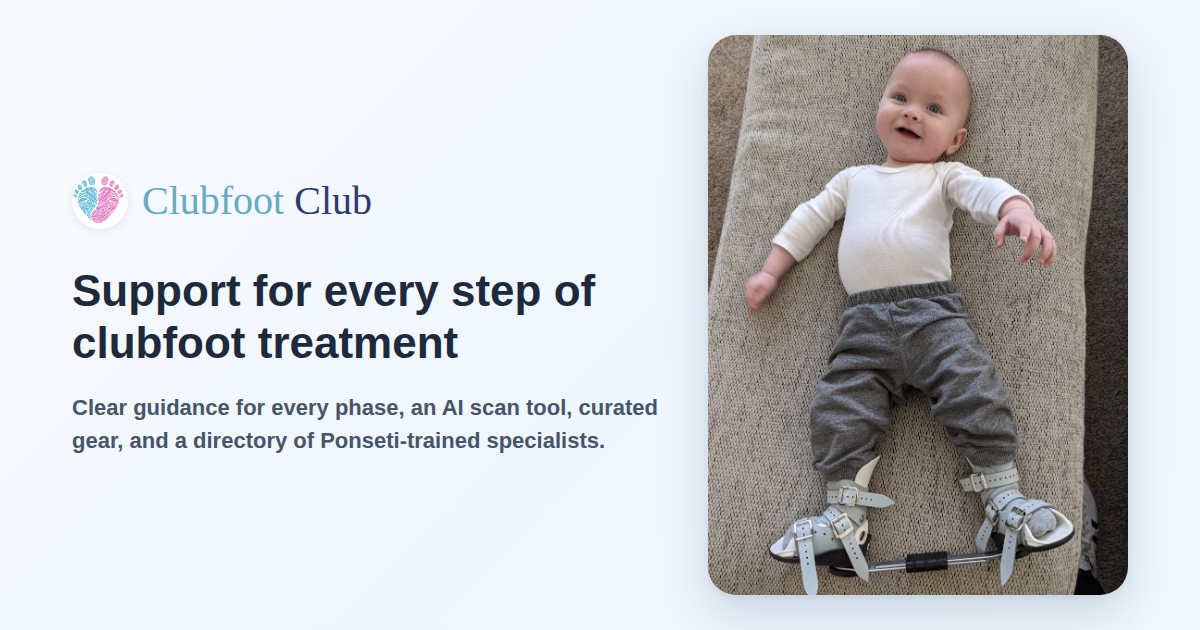
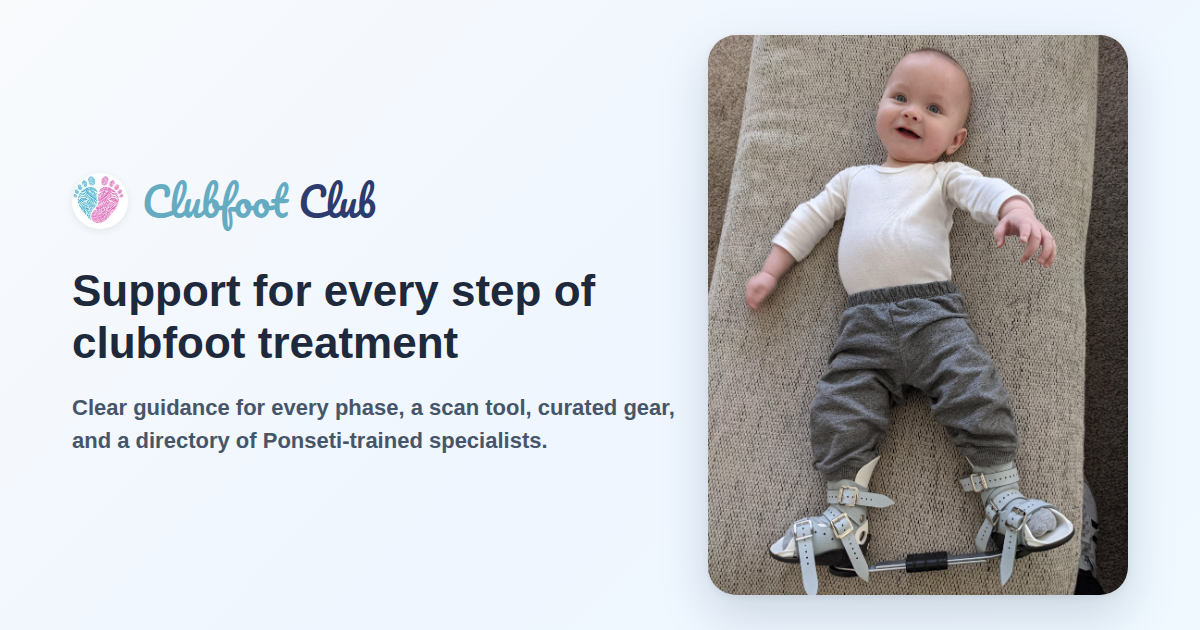
Homepage: remove references to AI; fix share image wordmark
- Home.jsx: reword the hero subtitle and Scan & Assess section so
  they no longer say "AI" (hero: "a scan tool"; section headline:
  "an instant check"; body names Scan & Assess directly).
- index.html: same in the description/og/twitter meta tags.
- og-image.png: regenerate without "AI" in the tagline. The previous
  image (PR #80) also rendered the wordmark in a serif fallback
  because Google Fonts was blocked in the sandbox; this version
  loads Pacifico locally so the wordmark matches the site.
- Left the "AI-generated, not medical advice" disclaimer on scan
  results untouched (transparency notice, not homepage copy).

Claude-Session: https://claude.ai/code/session_01CrjRF5mKBniE4YqyxLmCGR

Changed region(s): [[0.0617, 0.6333, 0.555, 0.7238], [0.1233, 0.2714, 0.3392, 0.3619]]

diff --git a/index.html b/index.html
@@ -4,19 +4,19 @@
     <meta charset="UTF-8" />
     <meta name="viewport" content="width=device-width, initial-scale=1.0, maximum-scale=1.0" />
     <title>Clubfoot Club · Support for Every Step of the Journey</title>
-    <meta name="description" content="The trusted guide for families navigating clubfoot treatment. Covers every phase from prenatal diagnosis through long-term care, with an AI-powered scan tool, curated product picks, and a global directory of Ponseti-trained specialists." />
+    <meta name="description" content="The trusted guide for families navigating clubfoot treatment. Covers every phase from prenatal diagnosis through long-term care, with a scan tool for spotting cast and brace problems, curated product picks, and a global directory of Ponseti-trained specialists." />
 
     <!-- Open Graph / link previews -->
     <meta property="og:type" content="website" />
     <meta property="og:url" content="https://clubfoot-club.com" />
     <meta property="og:title" content="Clubfoot Club · Support for Every Step of the Journey" />
-    <meta property="og:description" content="The trusted guide for families navigating clubfoot treatment. Covers every phase from prenatal diagnosis through long-term care, with an AI-powered scan tool, curated product picks, and a global directory of Ponseti-trained specialists." />
+    <meta property="og:description" content="The trusted guide for families navigating clubfoot treatment. Covers every phase from prenatal diagnosis through long-term care, with a scan tool for spotting cast and brace problems, curated product picks, and a global directory of Ponseti-trained specialists." />
     <meta property="og:image" content="https://clubfoot-club.com/og-image.png" />
 
     <!-- Twitter / iMessage -->
     <meta name="twitter:card" content="summary_large_image" />
     <meta name="twitter:title" content="Clubfoot Club · Support for Every Step of the Journey" />
-    <meta name="twitter:description" content="The trusted guide for families navigating clubfoot treatment. Covers every phase from prenatal diagnosis through long-term care, with an AI-powered scan tool, curated product picks, and a global directory of Ponseti-trained specialists." />
+    <meta name="twitter:description" content="The trusted guide for families navigating clubfoot treatment. Covers every phase from prenatal diagnosis through long-term care, with a scan tool for spotting cast and brace problems, curated product picks, and a global directory of Ponseti-trained specialists." />
     <meta name="twitter:image" content="https://clubfoot-club.com/og-image.png" />
 
     <link rel="icon" type="image/jpeg" href="/logo.jpg" />

diff --git a/src/pages/Home.jsx b/src/pages/Home.jsx
@@ -55,7 +55,7 @@ export default function Home() {
                 Support for every step of clubfoot treatment
               </h1>
               <p className="mt-5 text-base md:text-lg text-slate-600 leading-relaxed max-w-xl">
-                Clear guidance for every phase, an AI tool to help you spot cast and brace problems early, curated gear, and a directory of Ponseti-trained specialists. Built by a clubfoot family.
+                Clear guidance for every phase, a scan tool to help you spot cast and brace problems early, curated gear, and a directory of Ponseti-trained specialists. Built by a clubfoot family.
               </p>
               <div className="mt-8">
                 <button
@@ -135,10 +135,10 @@ export default function Home() {
                 <span className="px-1.5 py-0.5 rounded-full text-[10px] font-bold uppercase tracking-wide bg-amber-100 text-amber-700">Beta</span>
               </div>
               <h2 className="text-2xl md:text-3xl font-bold leading-snug" style={{ color: NAVY }}>
-                Worried about a cast or brace? Get an instant AI check.
+                Worried about a cast or brace? Get an instant check.
               </h2>
               <p className="mt-3 text-sm md:text-base text-slate-600 leading-relaxed max-w-xl">
-                Take a photo of the cast or brace and our AI tool flags common warning signs in seconds, so you know whether to call your care team right away or it can wait. It's not a replacement for your care team's advice.
+                Take a photo of the cast or brace and Scan &amp; Assess flags common warning signs in seconds, so you know whether to call your care team right away or it can wait. It's not a replacement for your care team's advice.
               </p>
               <button
                 onClick={() => navigate("/scan")}
